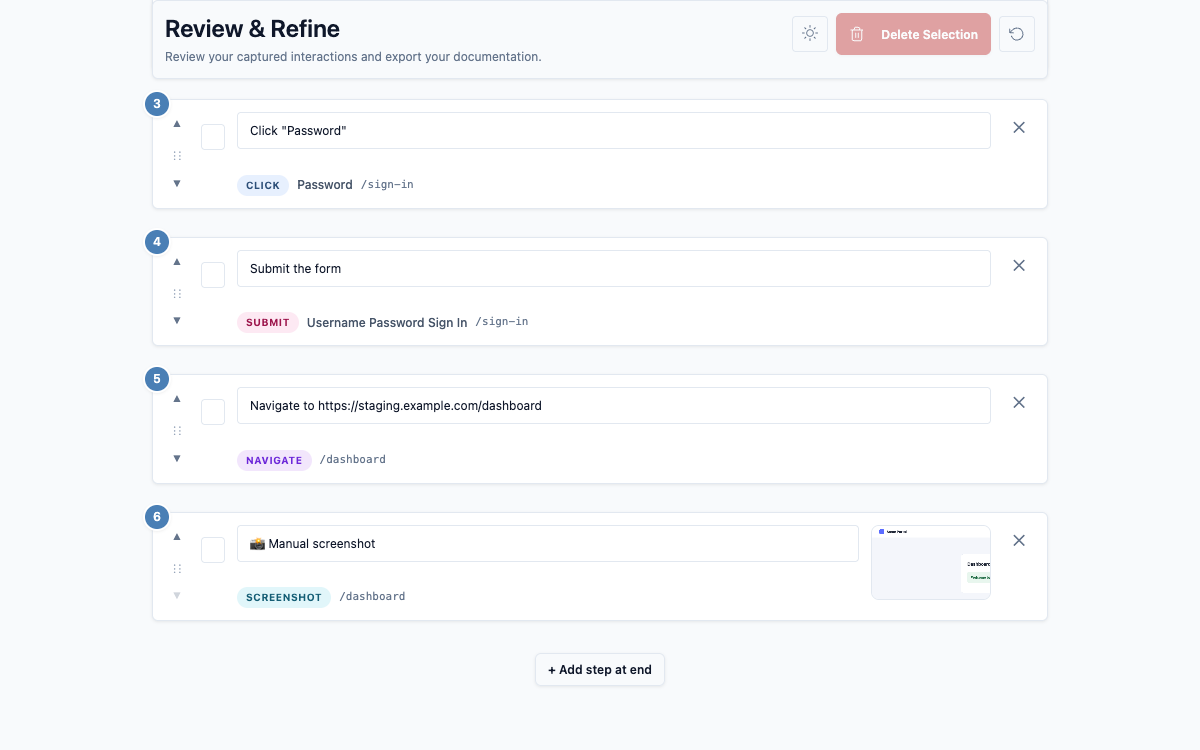
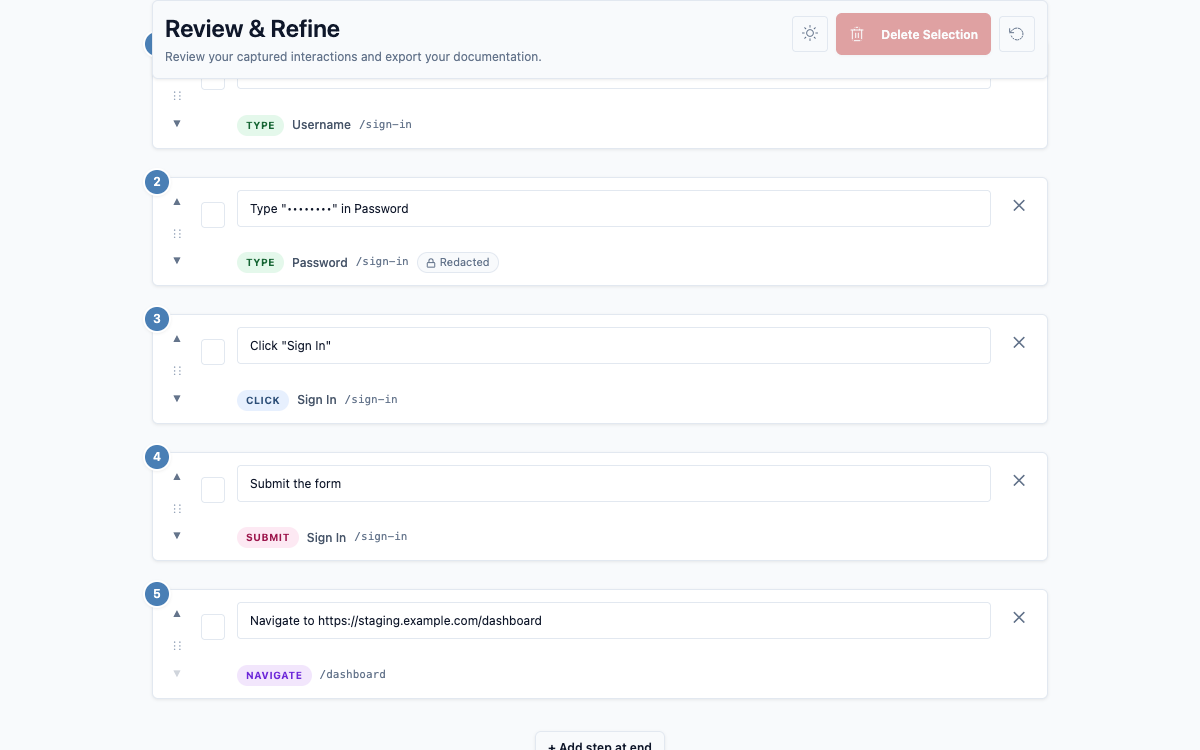
docs(pages): re-capture walkthrough and samples with the naming fix

diff --git a/docs/site-data.js b/docs/site-data.js
@@ -1,6 +1,6 @@
 // Generated by scripts/capture-site-screens.js. Do not edit by hand.
 window.SITE_DATA = {
-  "generated": "2026-10-23",
+  "generated": "2026-10-24",
   "version": "1.1.8",
   "walkthrough": {
     "chapters": [
@@ -110,10 +110,7 @@ window.SITE_DATA = {
         "chapter": 2,
         "caption": "Every step and screenshot, ready to edit",
         "url": "TestSnapper review",
-        "click": {
-          "x": 77.58,
-          "y": 74.96
-        }
+        "click": null
       },
       {
         "img": "img/walk-08-privacy.png",
@@ -148,8 +145,8 @@ window.SITE_DATA = {
     ]
   },
   "samples": {
-    "csv": "\"Author\",\"QA team\"\n\"Start Time\",\"24/10/2026, 1:55 am\"\n\"End Time\",\"24/10/2026, 1:55 am\"\n\n\"Step\",\"Action\",\"Field Name\",\"Value\",\"URL\"\n\"1\",\"type\",\"Username\",\"qa_lead\",\"https://staging.example.com/sign-in\"\n\"2\",\"type\",\"Password\",\"••••••••\",\"https://staging.example.com/sign-in\"\n\"3\",\"click\",\"Password\",\"\",\"https://staging.example.com/sign-in\"\n\"4\",\"submit\",\"Username Password Sign In\",\"\",\"https://staging.example.com/sign-in\"\n\"5\",\"navigate\",\"Page Navigation\",\"https://staging.example.com/dashboard\",\"https://staging.example.com/dashboard\"",
-    "json": "{\n  \"session\": {\n    \"id\": \"af73e892-137c-4a68-a266-06def0f4f099\",\n    \"name\": \"Sign-in smoke test\",\n    \"createdAt\": \"2026-10-23T20:25:22.594Z\",\n    \"author\": \"QA team\",\n    \"startTime\": \"2026-10-23T20:25:22.594Z\",\n    \"endTime\": \"2026-10-23T20:25:31.339Z\",\n    \"environment\": {\n      \"title\": \"Sign-in smoke test\",\n      \"ua\": \"Mozilla/5.0 (Macintosh; Intel Mac OS X 10_15_7) AppleWebKit/537.36 (KHTML, like Gecko) Chrome/145.0.0.0 Safari/537.36\",\n      \"url\": \"https://staging.example.com/sign-in\",\n      \"viewport\": {\n        \"height\": 750,\n        \"width\": 1200\n      }\n    },\n    \"stepCount\": 6\n  },\n  \"steps\": [\n    {\n      \"id\": \"24ec578e-cfd3-4bf9-8457-7c323e469c61\",\n      \"sessionId\": \"af73e892-137c-4a68-a266-06def0f4f099\",\n      \"sequence\": 1,\n      \"action\": \"type\",\n      \"fieldName\": \"Username\",\n      \"targetLabel\": \"\",\n      \"url\": \"https://staging.example.com/sign-in\",\n      \"value\": \"qa_lead\",\n      \"isSensitive\": false,\n      \"timestamp\": \"2026-10-23T20:25:24.218Z\"\n    },\n    {\n      \"id\": \"278f77cd-c02e-466a-9977-bce89c6c7695\",\n      \"sessionId\": \"af73e892-137c-4a68-a266-06def0f4f099\",\n      \"sequence\": 2,\n      \"action\": \"type\",\n      \"fieldName\": \"Password\",\n      \"targetLabel\": \"\",\n      \"url\": \"https://staging.example.com/sign-in\",\n      \"value\": \"••••••••\",\n      \"isSensitive\": true,\n      \"timestamp\": \"2026-10-23T20:25:25.682Z\"\n    },\n    {\n      \"id\": \"82f364b9-b311-40a8-bbc1-efb05a993ad5\",\n      \"sessionId\": \"af73e892-137c-4a68-a266-06def0f4f099\",\n      \"sequence\": 3,\n      \"action\": \"click\",\n      \"fieldName\": \"Password\",\n      \"targetLabel\": \"Sign in\",\n      \"url\": \"https://staging.example.com/sign-in\",\n      \"value\": null,\n      \"isSensitive\": false,\n      \"timestamp\": \"2026-10-23T20:25:25.684Z\"\n    },\n    {\n      \"id\": \"eedc4aed-fb7a-4076-b91c-d111ddf132eb\",\n      \"sessionId\": \"af73e892-137c-4a68-a266-06def0f4f099\",\n      \"sequence\": 4,\n      \"action\": \"submit\",\n      \"fieldName\": \"Username Password Sign In\",\n      \"targetLabel\": \"Submit Form\",\n      \"url\": \"https://staging.example.com/sign-in\",\n      \"value\": null,\n      \"isSensitive\": false,\n      \"timestamp\": \"2026-10-23T20:25:25.687Z\"\n    },\n    {\n      \"id\": \"504af293-2a05-4690-bfed-1f491dfa06b7\",\n      \"sessionId\": \"af73e892-137c-4a68-a266-06def0f4f099\",\n      \"sequence\": 5,\n      \"action\": \"navigate\",\n      \"fieldName\": \"Page Navigation\",\n      \"targetLabel\": \"Acme: Dashboard\",\n      \"url\": \"https://staging.example.com/dashboard\",\n      \"value\": \"https://staging.example.com/dashboard\",\n      \"isSensitive\": false,\n      \"hasScreenshot\": false,\n      \"isManual\": false,\n      \"timestamp\": \"2026-10-23T20:25:26.019Z\"\n    },\n    {\n      \"id\": \"7940f32d-9cbc-47ca-a0c7-df8bc42823bc\",\n      \"sessionId\": \"af73e892-137c-4a68-a266-06def0f4f099\",\n      \"sequence\": 6,\n      \"action\": \"screenshot\",\n      \"fieldName\": \"Screenshot\",\n      \"targetLabel\": \"Manual Screenshot\",\n      \"screenshotTrigger\": \"manual\",\n      \"url\": \"https://staging.example.com/dashboard\",\n      \"value\": null,\n      \"isSensitive\": false,\n      \"isManual\": true,\n      \"hasScreenshot\": true,\n      \"timestamp\": \"2026-10-23T20:25:28.501Z\"\n    }\n  ]\n}",
-    "md": "# Sign-in smoke test\n\n**Author:** QA team  \n**Start Time:** 24/10/2026, 1:55 am  \n**End Time:** 24/10/2026, 1:55 am  \n**Steps:** 6\n\n---\n\n### Step 1: type\n- **Field:** Username\n- **Value:** `qa_lead`\n- **URL:** `https://staging.example.com/sign-in`\n\n### Step 2: type\n- **Field:** Password\n- **Value:** `••••••••`\n- **URL:** `https://staging.example.com/sign-in`\n\n### Step 3: click\n- **Field:** Password\n- **URL:** `https://staging.example.com/sign-in`\n\n### Step 4: submit\n- **Field:** Username Password Sign In\n- **URL:** `https://staging.example.com/sign-in`\n\n### Step 5: navigate\n- **Field:** Page Navigation\n- **Value:** `https://staging.example.com/dashboard`\n- **URL:** `https://staging.example.com/dashboard`\n\n### Step 6: screenshot\n- **Field:** Screenshot\n- **URL:** `https://staging.example.com/dashboard`\n"
+    "csv": "\"Author\",\"QA team\"\n\"Start Time\",\"24/10/2026, 9:31 pm\"\n\"End Time\",\"24/10/2026, 9:31 pm\"\n\n\"Step\",\"Action\",\"Field Name\",\"Value\",\"URL\"\n\"1\",\"type\",\"Username\",\"qa_lead\",\"https://staging.example.com/sign-in\"\n\"2\",\"type\",\"Password\",\"••••••••\",\"https://staging.example.com/sign-in\"\n\"3\",\"click\",\"Sign In\",\"\",\"https://staging.example.com/sign-in\"\n\"4\",\"submit\",\"Sign In\",\"\",\"https://staging.example.com/sign-in\"\n\"5\",\"navigate\",\"Page Navigation\",\"https://staging.example.com/dashboard\",\"https://staging.example.com/dashboard\"",
+    "json": "{\n  \"session\": {\n    \"id\": \"2a82d393-dca0-40fd-a158-cd6ee4ca600a\",\n    \"name\": \"Sign-in smoke test\",\n    \"createdAt\": \"2026-10-24T16:01:07.635Z\",\n    \"author\": \"QA team\",\n    \"startTime\": \"2026-10-24T16:01:07.635Z\",\n    \"endTime\": \"2026-10-24T16:01:16.317Z\",\n    \"environment\": {\n      \"title\": \"Sign-in smoke test\",\n      \"ua\": \"Mozilla/5.0 (Macintosh; Intel Mac OS X 10_15_7) AppleWebKit/537.36 (KHTML, like Gecko) Chrome/145.0.0.0 Safari/537.36\",\n      \"url\": \"https://staging.example.com/sign-in\",\n      \"viewport\": {\n        \"height\": 750,\n        \"width\": 1200\n      }\n    },\n    \"stepCount\": 5\n  },\n  \"steps\": [\n    {\n      \"id\": \"5cce36ab-0097-4865-a0c9-7395ca260ea8\",\n      \"sessionId\": \"2a82d393-dca0-40fd-a158-cd6ee4ca600a\",\n      \"sequence\": 1,\n      \"action\": \"type\",\n      \"fieldName\": \"Username\",\n      \"targetLabel\": \"\",\n      \"url\": \"https://staging.example.com/sign-in\",\n      \"value\": \"qa_lead\",\n      \"isSensitive\": false,\n      \"timestamp\": \"2026-10-24T16:01:09.216Z\"\n    },\n    {\n      \"id\": \"1cade23f-7e95-43d7-a365-6cf7813c49e3\",\n      \"sessionId\": \"2a82d393-dca0-40fd-a158-cd6ee4ca600a\",\n      \"sequence\": 2,\n      \"action\": \"type\",\n      \"fieldName\": \"Password\",\n      \"targetLabel\": \"\",\n      \"url\": \"https://staging.example.com/sign-in\",\n      \"value\": \"••••••••\",\n      \"isSensitive\": true,\n      \"timestamp\": \"2026-10-24T16:01:10.668Z\"\n    },\n    {\n      \"id\": \"37cf08f1-ce28-4348-a2b9-84128738b5b5\",\n      \"sessionId\": \"2a82d393-dca0-40fd-a158-cd6ee4ca600a\",\n      \"sequence\": 3,\n      \"action\": \"click\",\n      \"fieldName\": \"Sign In\",\n      \"targetLabel\": \"Sign in\",\n      \"url\": \"https://staging.example.com/sign-in\",\n      \"value\": null,\n      \"isSensitive\": false,\n      \"timestamp\": \"2026-10-24T16:01:10.669Z\"\n    },\n    {\n      \"id\": \"bd40301d-2714-4043-8038-bf2be01e3391\",\n      \"sessionId\": \"2a82d393-dca0-40fd-a158-cd6ee4ca600a\",\n      \"sequence\": 4,\n      \"action\": \"submit\",\n      \"fieldName\": \"Sign In\",\n      \"targetLabel\": \"Submit Form\",\n      \"url\": \"https://staging.example.com/sign-in\",\n      \"value\": null,\n      \"isSensitive\": false,\n      \"timestamp\": \"2026-10-24T16:01:10.671Z\"\n    },\n    {\n      \"id\": \"86288a8d-7eb0-4b97-b443-93c34a2c1408\",\n      \"sessionId\": \"2a82d393-dca0-40fd-a158-cd6ee4ca600a\",\n      \"sequence\": 5,\n      \"action\": \"navigate\",\n      \"fieldName\": \"Page Navigation\",\n      \"targetLabel\": \"Acme: Dashboard\",\n      \"url\": \"https://staging.example.com/dashboard\",\n      \"value\": \"https://staging.example.com/dashboard\",\n      \"isSensitive\": false,\n      \"hasScreenshot\": false,\n      \"isManual\": false,\n      \"timestamp\": \"2026-10-24T16:01:11.040Z\"\n    }\n  ]\n}",
+    "md": "# Sign-in smoke test\n\n**Author:** QA team  \n**Start Time:** 24/10/2026, 9:31 pm  \n**End Time:** 24/10/2026, 9:31 pm  \n**Steps:** 5\n\n---\n\n### Step 1: type\n- **Field:** Username\n- **Value:** `qa_lead`\n- **URL:** `https://staging.example.com/sign-in`\n\n### Step 2: type\n- **Field:** Password\n- **Value:** `••••••••`\n- **URL:** `https://staging.example.com/sign-in`\n\n### Step 3: click\n- **Field:** Sign In\n- **URL:** `https://staging.example.com/sign-in`\n\n### Step 4: submit\n- **Field:** Sign In\n- **URL:** `https://staging.example.com/sign-in`\n\n### Step 5: navigate\n- **Field:** Page Navigation\n- **Value:** `https://staging.example.com/dashboard`\n- **URL:** `https://staging.example.com/dashboard`\n"
   }
 };

diff --git a/docs/samples/sign-in-smoke-test.md b/docs/samples/sign-in-smoke-test.md
@@ -1,9 +1,9 @@
 # Sign-in smoke test
 
 **Author:** QA team  
-**Start Time:** 24/10/2026, 1:55 am  
-**End Time:** 24/10/2026, 1:55 am  
-**Steps:** 6
+**Start Time:** 24/10/2026, 9:31 pm  
+**End Time:** 24/10/2026, 9:31 pm  
+**Steps:** 5
 
 ---
 
@@ -18,18 +18,14 @@
 - **URL:** `https://staging.example.com/sign-in`
 
 ### Step 3: click
-- **Field:** Password
+- **Field:** Sign In
 - **URL:** `https://staging.example.com/sign-in`
 
 ### Step 4: submit
-- **Field:** Username Password Sign In
+- **Field:** Sign In
 - **URL:** `https://staging.example.com/sign-in`
 
 ### Step 5: navigate
 - **Field:** Page Navigation
 - **Value:** `https://staging.example.com/dashboard`
-- **URL:** `https://staging.example.com/dashboard`
-
-### Step 6: screenshot
-- **Field:** Screenshot
 - **URL:** `https://staging.example.com/dashboard`
